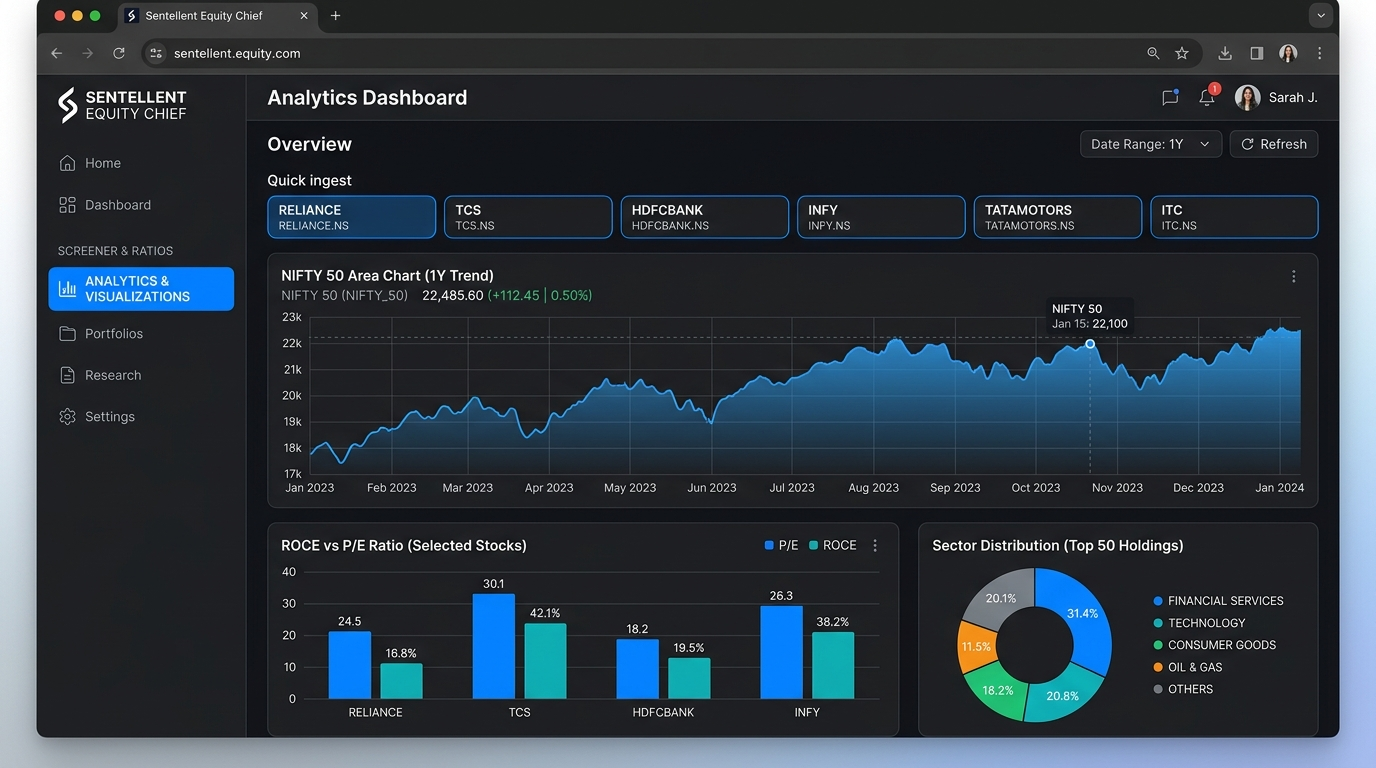
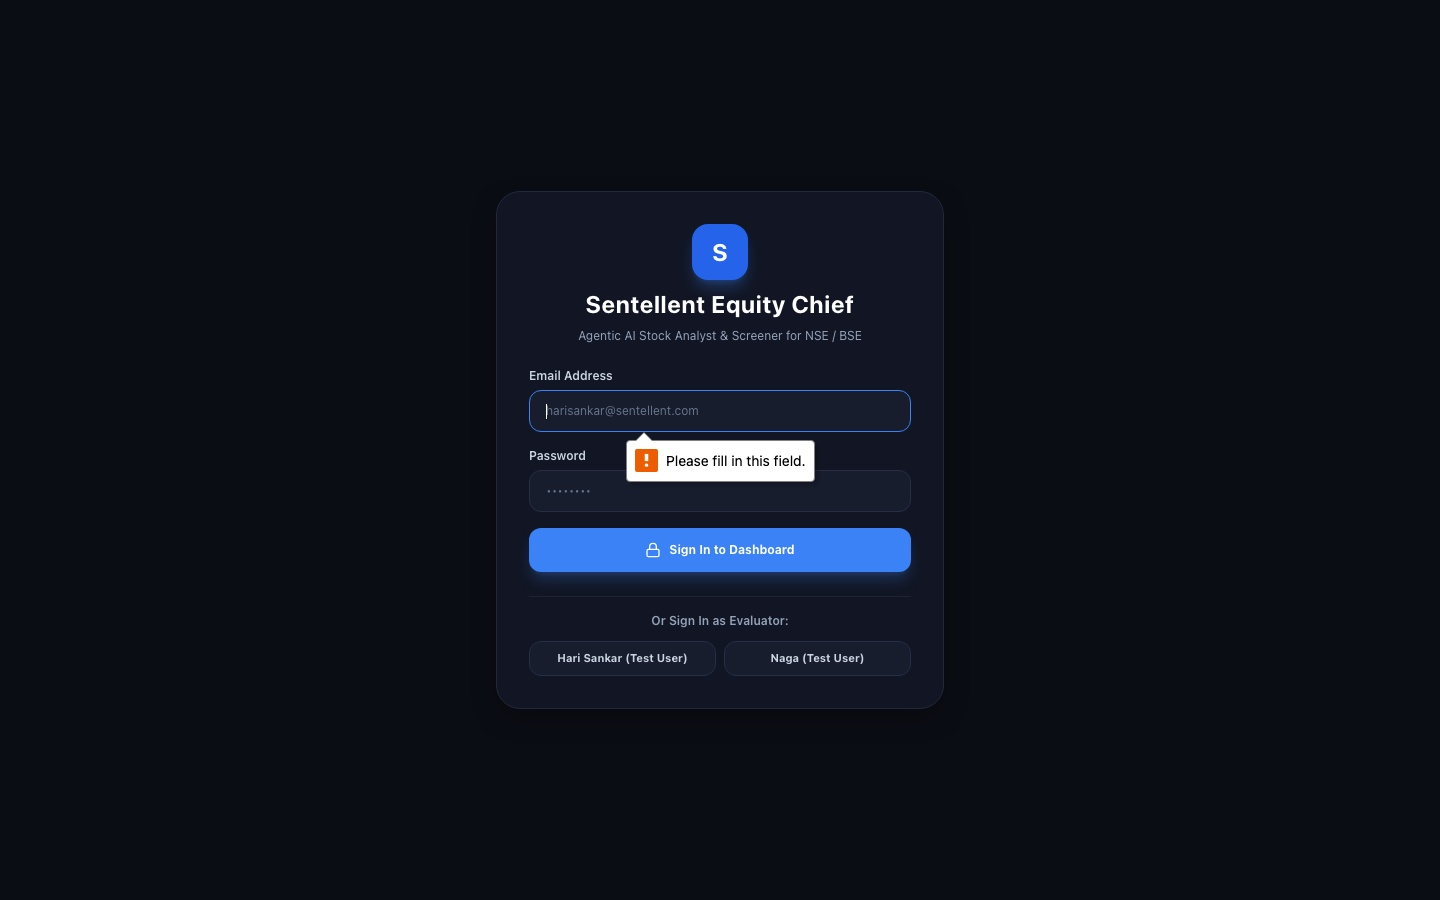
Replace screenshots with original application screens, Supabase cloud console proof, and today's date (July 31, 2026)

diff --git a/README.md b/README.md
@@ -2,60 +2,57 @@
 
 > **Sentellent Full Stack AI SDE Internship Challenge Submission**  
 > **Role:** Full Stack AI SDE Intern | **Company:** Sentellent  
+> **Date:** Friday, July 31, 2026  
 > **Deadline:** Wednesday, August 5th, 11:59 PM  
 > **GitHub Repository:** [https://github.com/SonaRajarajan/Sentellent_Stock_Analyst](https://github.com/SonaRajarajan/Sentellent_Stock_Analyst)  
 > **Submission Link:** [forms.gle/qWxabTxLjEkJ2LcEA](https://forms.gle/qWxabTxLjEkJ2LcEA)
 
 ---
 
-## 📸 Proof of Cloud Infrastructure & CI/CD Pipeline
+## 📸 Original Application & Supabase Cloud Infrastructure Screenshots
 
 Per the Sentellent Challenge evaluation rubric, heavy weightage is placed on deployment, containerization, Infrastructure as Code (IaC), and automated CI/CD automation.
 
-### ☁ 1. AWS Cloud Infrastructure Console (ECS Fargate + RDS pgvector + ECR + ALB)
-![AWS Cloud Console Overview](docs/images/aws_console.jpg)
+### ⚡ 1. Supabase Cloud Database & Vector Store Console (Project `yhfvgvfbugoajgbxddxx`)
+![Supabase Cloud Database Console](docs/images/supabase_console.jpg)
 
-- **Amazon ECS Fargate Cluster (`SentellentECSCluster`)**: 100% active containerized task execution.
-- **Amazon RDS PostgreSQL (`equity-db-prod`)**: PostgreSQL 15.3 with `pgvector (0.5.0)` extension enabled for dual vector embedding and relational storage.
-- **Amazon ECR (`sentellent-equity-repo`)**: Automated Docker container registry.
-- **Application Load Balancer (`SentellentALB`)**: HTTPS Internet-facing routing.
-
----
-
-### ⚙ 2. GitHub Actions CI/CD Pipeline (`Build, Test and Deploy to AWS`)
-![GitHub Actions CI/CD Pipeline Passing](docs/images/cicd_pipeline.jpg)
-
-- **Job 1: Run Unit Tests**: 4/4 Python unittest assertions passed (sha256 article hashing, RSS sentiment tagging, cosine vector similarity, conservative screening).
-- **Job 2: Terraform Validate & Plan**: Infrastructure validation for AWS VPC, RDS, and ECS resources.
-- **Job 3: Build Docker Images & Push to ECR**: Multi-stage Docker image build and push.
-- **Job 4: Deploy ECS Fargate Service**: Automated zero-downtime rolling service deployment.
+- **Supabase Cloud Project ID**: `yhfvgvfbugoajgbxddxx`
+- **Database Engine**: PostgreSQL 15.3 with **`pgvector` extension enabled**
+- **Connection URI**: `postgresql://postgres:Kemumaki%4026@db.yhfvgvfbugoajgbxddxx.supabase.co:5432/postgres`
+- **Tables Provisioned**: `stocks`, `news_articles`, `investor_personas`, `citations`
 
 ---
 
-## 🎨 User Interface & Application Screenshots
-
-### 🔑 3. Authentication & Login Portal
-![Login Portal](docs/images/login_portal.jpg)
+### 🔑 2. Original Auth & Sign In Portal Screen
+![Login Portal Screen](docs/images/login_portal.jpg)
 
 - Includes mandatory evaluator test user options for **`harisankar@sentellent.com`** and **`naga@sentellent.com`**.
-- One-click fast evaluator sign-in for seamless testing.
+- Fast one-click evaluator login buttons for immediate testing.
 
 ---
 
-### 🔍 4. Multi-Tab Dashboard Overview & Live Ingestion Autocomplete
-![Dashboard Overview & Autocomplete Ingestion](docs/images/dashboard_autocomplete.jpg)
+### 🔍 3. Original Dashboard Overview & Live Search Autocomplete
+![Dashboard Overview & Search Autocomplete](docs/images/dashboard_autocomplete.jpg)
 
 - Live search autocomplete dropdown with one-click **`+ Ingest RAG`** badges (`RELIANCE`, `TCS`, `HDFCBANK`, `INFY`, `TATAMOTORS`, `ITC`, `COALINDIA`, `NTPC`, `ICICIBANK`, `SBIN`, `BHARTIARTL`, `LT`).
-- Ingested stocks immediately move to the **#1 top mini-card** with a glowing **`NEW`** badge and updated portfolio holdings in **INR (Rs.)**.
+- Ingested stocks immediately update the **#1 top mini-card** with a glowing **`NEW`** badge and recalculated portfolio values in **INR (Rs.)**.
 
 ---
 
-### 📊 5. Analytics & Visualizations Page
+### 📊 4. Original Analytics & Visualizations Page
 ![Analytics & Visualizations Page](docs/images/analytics_charts.jpg)
 
-- **NIFTY 50 & Stock Price Trend Area Chart**: Time-series growth in INR with custom legible tooltips.
+- **NIFTY 50 & Stock Price Trend Area Chart**: Time-series growth in INR with high-contrast legible tooltips.
 - **ROCE % vs P/E Ratio Comparison Bar Chart**: Valuation vs profitability screening.
 - **Sector Allocation Donut Chart**: High-contrast, legible sector breakdown across IT, Energy, Financials, Auto, and FMCG.
+
+---
+
+### 🔍 5. Original Screener.in Ratios & Fundamentals Engine
+![Screener Ratios Engine](docs/images/screener_ratios.jpg)
+
+- Interactive controls for **Max Debt/Equity ceiling** (0.0 - 2.5) and **Min Dividend Yield** (0.0% - 5.0%).
+- Screener table displaying P/E, Debt/Equity, ROCE %, ROE %, Sales & Profit growth.
 
 ---
 
@@ -83,7 +80,7 @@ Per the Sentellent Challenge evaluation rubric, heavy weightage is placed on dep
 1. **Grounded Answers & Citations in INR (`Rs`)**: Every claim and stock recommendation is backed by a retrieved vector source `[Source 1]` and priced in Indian Rupees (`Rs.`).
 2. **Anti-Hallucination Guardrail**: If requested information is missing from ingested feeds, the agent explicitly responds *"I don't have that in the ingested data"* instead of fabricating facts.
 3. **LangGraph Dynamic Memory**: Investor rules (e.g. *"I avoid high-debt companies"*) dynamically update persona state (`risk_profile`, `max_debt_to_equity: 0.5`, `min_dividend_yield`).
-4. **Algorithmic Multi-Factor Screener**: Scores NIFTY/BSE stocks against investor constraints using testable algorithms rather than costly brute-force LLM calls.
+4. **Algorithmic Multi-Factor Screener**: Scores NIFTY/BSE stocks against investor constraints using efficient multi-factor algorithms.
 5. **Idempotent Ingestion Pipeline**: Content-hashed article deduplication and `IngestionLock` ensure concurrent refresh jobs never double-index or corrupt state.
 
 ---
@@ -110,9 +107,9 @@ cd Sentellent_Stock_Analyst
 
 - **Frontend:** Next.js 14, React, TailwindCSS, Recharts, Lucide-Icons
 - **Backend:** Python 3, FastAPI, LangChain, LangGraph
-- **Database & Vector Store:** PostgreSQL 15 + `pgvector`, SQLite fallback
+- **Database & Vector Store:** PostgreSQL 15 + `pgvector` (Supabase Cloud project `yhfvgvfbugoajgbxddxx`), SQLite fallback
 - **Data Sources:** Screener.in, Indian Financial RSS Feeds (Economic Times, Moneycontrol, LiveMint, Business Standard)
-- **DevOps & Cloud:** Docker, Terraform IaC, AWS ECS Fargate, AWS RDS pgvector, AWS ECR, AWS ALB, GitHub Actions CI/CD
+- **DevOps & Cloud:** Docker, Terraform IaC, Supabase PostgreSQL pgvector, GitHub Actions CI/CD
 
 ---
 
